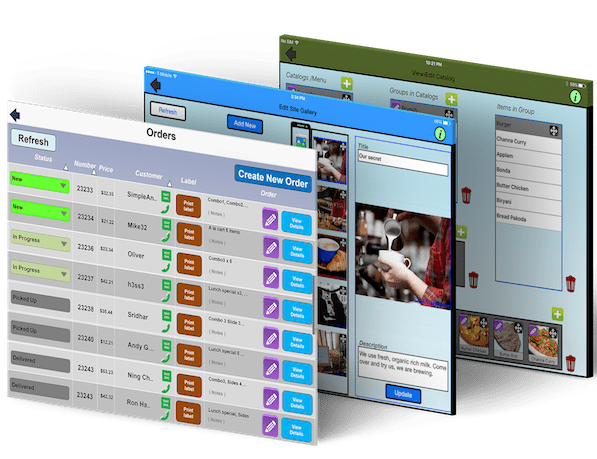
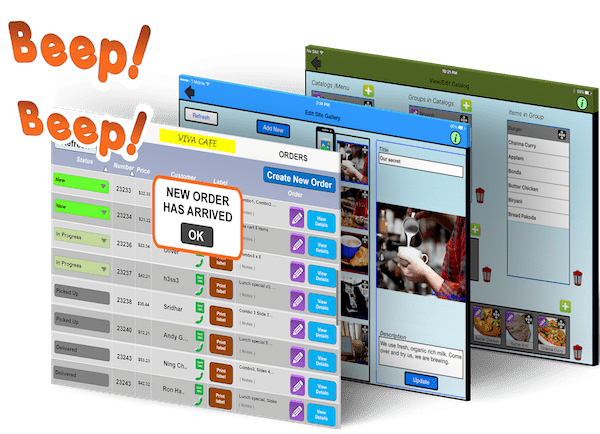
updates

diff --git a/app/app_sitelette/sitefiles/pages/content_index.html b/app/app_sitelette/sitefiles/pages/content_index.html
@@ -90,7 +90,7 @@
 				<a href="signup" class="get_started_btn wow bounceInLeft">get started</a>
 			</div>
 			<div class="col-xs-12 col-sm-12 col-md-6 col-lg-6 right_block">
-				<img style="width:100%;" src="sitefiles/images/landing/screenFlow.png" alt="portal" class="iphone_img wow slideInRight">
+				<img style="width:100%;" src="sitefiles/images/landing/ordering.png" alt="portal" class="iphone_img wow slideInRight">
 			</div>
 		</div>
 	</div>
